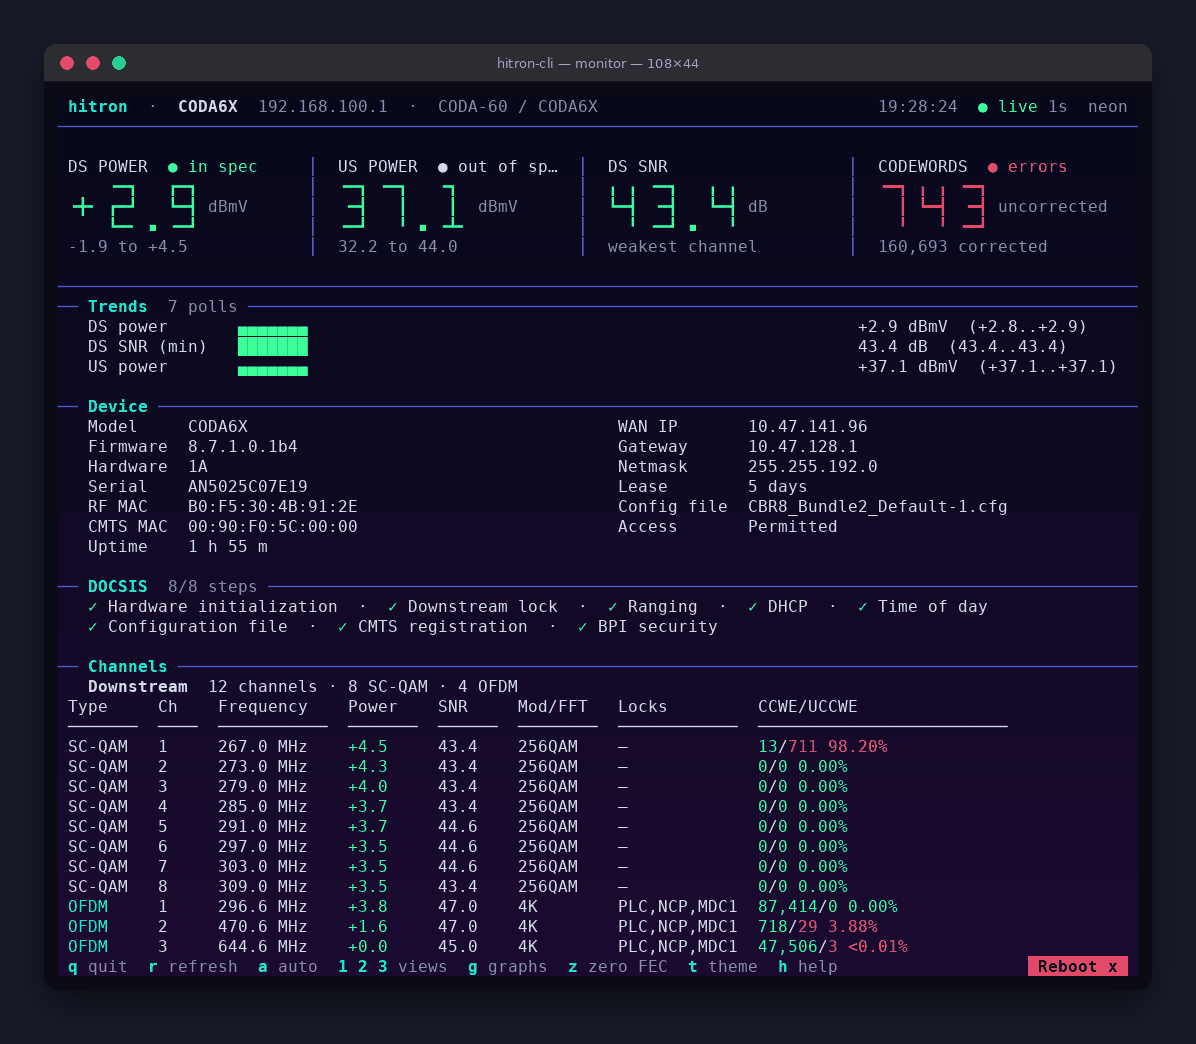
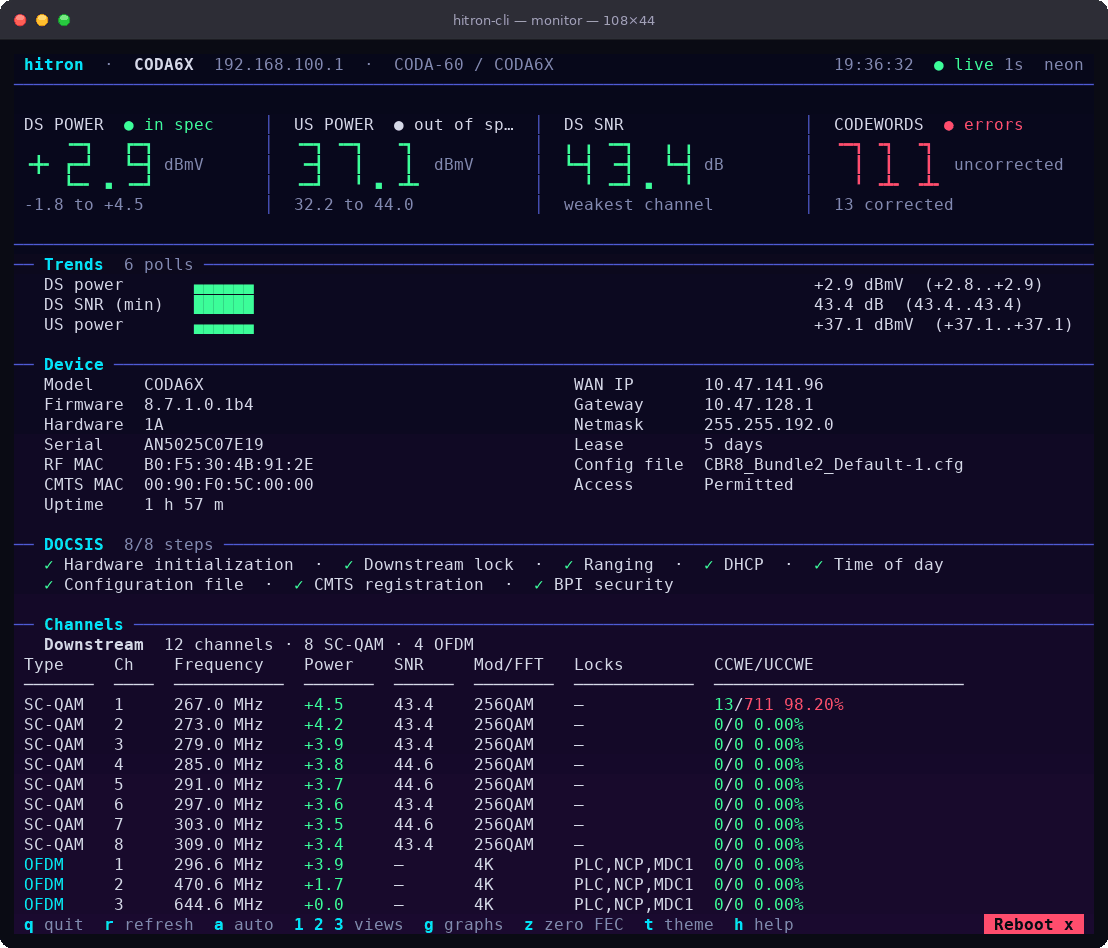
site: redesign CLI section; glossy window chrome, transparent edges, cropped shots
Claude-Session: https://claude.ai/code/session_01QjpKwof5sAL7DD3A8Eu8rh

Changed region(s): [[0.0, 0.0, 0.9819, 0.9789], [0.8592, 0.9177, 0.9819, 1.0]]

diff --git a/site/index.html b/site/index.html
@@ -88,73 +88,81 @@
   <div><strong>0</strong><span>extra Python deps</span></div>
 </section>
 
-<section id="cli" class="section">
-  <div class="section-head">
-    <h2>hitron-cli: a live dashboard in your terminal</h2>
-    <p>One static binary, no runtime, no login. It reads the modem's signal levels every second and shows them as big numbers, trend graphs, and a channel table that turns red when codewords go bad. Works on the CODA6X (CODA-60), CODA-57, and HT-EM5.</p>
+<section id="cli" class="section cli">
+  <div class="cli-hero">
+    <div class="cli-hero-copy">
+      <p class="eyebrow">hitron-cli</p>
+      <h2>Your modem's signal, live in the terminal.</h2>
+      <p class="lede">One static binary and no login. Power, SNR, and codeword errors update every second, with trend graphs and a channel table that turns red when something is wrong. Works on the CODA6X, CODA-57, and HT-EM5.</p>
+      <div class="cmd" role="group" aria-label="Install command">
+        <code id="cli-install-cmd">go install github.com/Netquor/hitron/cli/cmd/hitron-cli@latest</code>
+        <button class="copy" data-copy="#cli-install-cmd" type="button">Copy</button>
+      </div>
+      <p class="muted small">Needs Go 1.22+. Prefer a download? Binaries for Linux, macOS, and Windows are on <a href="https://github.com/Netquor/hitron/releases">Releases</a>.</p>
+      <div class="cta-row">
+        <a class="btn primary" href="#cli-start">Get started</a>
+        <a class="quiet-link" href="https://github.com/Netquor/hitron/tree/main/cli">Source and flags ↗</a>
+      </div>
+    </div>
+    <figure class="shot glow">
+      <img src="assets/cli/summary.gif" alt="hitron-cli live summary in a macOS terminal window: power and SNR tiles, trend graphs, device identity, DOCSIS steps, and a downstream channel table updating every second" width="1108" height="948">
+      <figcaption>A CODA-60 polled once a second. The identifiers are made up; the readings are real.</figcaption>
+    </figure>
   </div>
 
-  <figure class="shot hero-shot">
-    <img src="assets/cli/summary.gif" alt="hitron-cli live summary: power and SNR tiles, trend graphs, device identity, DOCSIS steps, and a downstream channel table updating once a second" width="1196" height="1044" loading="lazy">
-    <figcaption>The live summary on a CODA-60, polling once a second. Identifiers in these captures are made up; the readings are real.</figcaption>
-  </figure>
+  <ol id="cli-start" class="cli-steps">
+    <li>
+      <span class="step-num">1</span>
+      <h3>Install</h3>
+      <p>Use the command above, or download a release and put it on your <code>PATH</code>.</p>
+    </li>
+    <li>
+      <span class="step-num">2</span>
+      <h3>Run it on the modem's LAN</h3>
+      <pre class="mini"><code>hitron-cli monitor</code></pre>
+      <p>It tries <code>192.168.100.1</code> and detects the family. Another address: <code>hitron-cli monitor 192.168.0.1</code>.</p>
+    </li>
+    <li>
+      <span class="step-num">3</span>
+      <h3>Press <kbd>h</kbd></h3>
+      <p>Every action is one key and <kbd>q</kbd> quits. For scripts, <code>hitron-cli stats --once</code> prints text and <code>--json</code> a snapshot.</p>
+    </li>
+  </ol>
 
-  <div class="cli-grid">
-    <div class="install cli-install">
-      <h3>Get started</h3>
-      <ol class="cli-steps">
-        <li>
-          <strong>Install</strong>
-          <p class="muted small">Grab a binary from <a href="https://github.com/Netquor/hitron/releases">Releases</a> (Linux, macOS, Windows; amd64 and arm64), or build it with Go 1.22+:</p>
-          <pre class="install-code"><span class="prompt" aria-hidden="true">$</span><code id="cli-install-cmd">go install github.com/Netquor/hitron/cli/cmd/hitron-cli@latest</code></pre>
-          <button class="btn copy" type="button" data-copy="#cli-install-cmd">Copy</button>
-        </li>
-        <li>
-          <strong>Run it from any machine on the modem's LAN</strong>
-          <pre class="install-code"><span class="prompt" aria-hidden="true">$</span><code id="cli-run-cmd">hitron-cli monitor</code></pre>
-          <button class="btn copy" type="button" data-copy="#cli-run-cmd">Copy</button>
-          <p class="muted small">It finds the modem at <code>192.168.100.1</code>, works out which family it is, and starts the live view. Another address: <code>hitron-cli monitor 192.168.0.1</code>. No terminal UI wanted: <code>hitron-cli stats --once</code> prints a text report and <code>--json</code> a snapshot.</p>
-        </li>
-        <li>
-          <strong>Press <kbd>h</kbd> for help</strong>
-          <p class="muted small">Everything is one key. <kbd>q</kbd> quits.</p>
-        </li>
-      </ol>
-    </div>
-    <div class="keys-card">
-      <h3>Keys</h3>
-      <dl class="keys">
-        <div><dt><kbd>1</kbd> <kbd>2</kbd> <kbd>3</kbd></dt><dd>summary · live spectrum · constellation</dd></div>
-        <div><dt><kbd>[</kbd> <kbd>]</kbd></dt><dd>previous / next channel in the analyser views</dd></div>
-        <div><dt><kbd>g</kbd></dt><dd>show or hide trend graphs</dd></div>
-        <div><dt><kbd>z</kbd></dt><dd>zero the FEC counters (counts since you pressed it)</dd></div>
-        <div><dt><kbd>t</kbd></dt><dd>next theme, remembered for next time</dd></div>
-        <div><dt><kbd>r</kbd> <kbd>a</kbd></dt><dd>refresh now · toggle automatic refresh</dd></div>
-        <div><dt><kbd>j</kbd> <kbd>k</kbd></dt><dd>scroll (the mouse wheel works too)</dd></div>
-        <div><dt><kbd>x</kbd></dt><dd>reboot, behind a typed confirmation</dd></div>
-      </dl>
-    </div>
-  </div>
+  <dl class="keys">
+    <div><dt><kbd>1</kbd><kbd>2</kbd><kbd>3</kbd></dt><dd>summary, spectrum, constellation</dd></div>
+    <div><dt><kbd>[</kbd><kbd>]</kbd></dt><dd>step through analyser channels</dd></div>
+    <div><dt><kbd>g</kbd></dt><dd>trend graphs on or off</dd></div>
+    <div><dt><kbd>z</kbd></dt><dd>zero the FEC counters</dd></div>
+    <div><dt><kbd>t</kbd></dt><dd>next theme, remembered</dd></div>
+    <div><dt><kbd>r</kbd><kbd>a</kbd></dt><dd>refresh now, auto refresh</dd></div>
+    <div><dt><kbd>j</kbd><kbd>k</kbd></dt><dd>scroll; the mouse wheel too</dd></div>
+    <div><dt><kbd>x</kbd></dt><dd>reboot, behind a typed confirm</dd></div>
+  </dl>
 
-  <div class="cli-feature">
+  <article class="cli-feature">
     <div class="cli-feature-copy">
+      <p class="eyebrow">Errors</p>
       <h3>Codewords you can read at a glance</h3>
-      <p>Every channel shows corrected and uncorrectable codewords as one column, <code>13/711 98.20%</code>, coloured green when clean and red when not. The big tile at the top rolls the whole modem into one number. Lease and uptime read as <em>5 days</em> and <em>1 h 58 m</em>, and the event log is rewritten into plain sentences, such as a profile change shown as <em>12 → 6</em>.</p>
+      <p>Corrected and uncorrectable counts share one column, <code>13/711 98.20%</code>, green when clean and red when not. The tile at the top rolls the whole modem into one number. Lease and uptime read as <em>5 days</em> and <em>1 h 58 m</em>, and the event log becomes plain sentences, a profile change shown as <em>12 → 6</em>.</p>
     </div>
-  </div>
+    <figure class="shot"><img src="assets/cli/codewords.png" alt="The downstream channel table with a CCWE/UCCWE column showing corrected and uncorrectable codewords with percentages, coloured green or red" width="1108" height="360" loading="lazy"></figure>
+  </article>
 
-  <div class="cli-feature">
+  <article class="cli-feature flip">
     <div class="cli-feature-copy">
+      <p class="eyebrow">Analyser</p>
       <h3>A spectrum analyser and constellation, built in</h3>
-      <p>On CODA6X modems the cable modem's own tuner is exposed. Press <kbd>2</kbd> for a 6 MHz live spectrum capture around any downstream channel, or <kbd>3</kbd> for the I/Q constellation with MER. The modem has one tuner, so captures run one at a time; use <kbd>[</kbd> and <kbd>]</kbd> to step through channels.</p>
+      <p>CODA6X modems expose their own tuner. Press <kbd>2</kbd> for a live 6 MHz capture around any downstream channel, or <kbd>3</kbd> for the I/Q constellation with MER. There is one tuner, so captures run one at a time; <kbd>[</kbd> and <kbd>]</kbd> step through channels.</p>
     </div>
-    <figure class="shot"><img src="assets/cli/analyser.gif" alt="Spectrum view of a 6 MHz window, then the 256-QAM constellation for a downstream channel, stepping through channels" width="1196" height="1044" loading="lazy"></figure>
-  </div>
+    <figure class="shot"><img src="assets/cli/analyser.gif" alt="A 6 MHz spectrum capture, then the 256-QAM constellation, stepping through downstream channels" width="1108" height="694" loading="lazy"></figure>
+  </article>
 
-  <div class="cli-feature">
+  <article class="cli-feature">
     <div class="cli-feature-copy">
+      <p class="eyebrow">Themes</p>
       <h3>Six themes, one key</h3>
-      <p>Press <kbd>t</kbd> to cycle neon, synthwave, dracula, nord, gruvbox, and matrix. The gradient background needs a 24-bit colour terminal and turns itself off otherwise; <kbd>b</kbd> toggles it.</p>
+      <p>Press <kbd>t</kbd> to cycle them. The gradient background needs a 24-bit colour terminal and switches itself off otherwise; <kbd>b</kbd> toggles it.</p>
       <div class="theme-picker" role="group" aria-label="Theme preview">
         <button type="button" data-theme-shot="neon" aria-pressed="true">neon</button>
         <button type="button" data-theme-shot="synthwave" aria-pressed="false">synthwave</button>
@@ -164,18 +172,19 @@
         <button type="button" data-theme-shot="matrix" aria-pressed="false">matrix</button>
       </div>
     </div>
-    <figure class="shot"><img id="theme-shot" src="assets/cli/theme-neon.png" alt="hitron-cli summary in the neon theme" width="1196" height="1044" loading="lazy"></figure>
-  </div>
+    <figure class="shot"><img id="theme-shot" src="assets/cli/theme-neon.png" alt="hitron-cli summary in the neon theme" width="1108" height="948" loading="lazy"></figure>
+  </article>
 
-  <div class="cli-feature">
+  <article class="cli-feature flip">
     <div class="cli-feature-copy">
-      <h3>Reboot that cannot happen by accident</h3>
-      <p>Press <kbd>x</kbd> (or click the Reboot button) and a dialog asks you to type the word <code>reboot</code>. Nothing is sent before that, and <kbd>Esc</kbd> cancels. The CODA6X needs no username or password from the LAN, so the dialog does not ask for one. Factory reset and hard reset are deliberately not in the dashboard; they stay as separate commands.</p>
+      <p class="eyebrow">Safety</p>
+      <h3>A reboot that cannot happen by accident</h3>
+      <p>Press <kbd>x</kbd>, or click the Reboot button, and a dialog asks you to type <code>reboot</code>. Nothing is sent before that and <kbd>Esc</kbd> cancels. The CODA6X needs no username or password from the LAN, so the dialog asks for none. Factory reset and hard reset are not in the dashboard; they stay separate commands.</p>
     </div>
-    <figure class="shot"><img src="assets/cli/reboot.png" alt="The reboot confirmation dialog asking the user to type the word reboot" width="1196" height="1044" loading="lazy"></figure>
-  </div>
+    <figure class="shot"><img src="assets/cli/reboot.png" alt="The reboot confirmation dialog asking you to type the word reboot" width="1108" height="500" loading="lazy"></figure>
+  </article>
 
-  <p class="muted small">Source, flags, and the full command list: <a href="https://github.com/Netquor/hitron/tree/main/cli">cli/README.md</a>. Read-only by design: the dashboard polls the same endpoints the modem's own status page uses.</p>
+  <p class="muted small cli-foot">The dashboard only reads: it polls the same endpoints the modem's own status page uses. Full command list in <a href="https://github.com/Netquor/hitron/tree/main/cli">cli/README.md</a>.</p>
 </section>
 
 <section id="quickstart" class="section">

diff --git a/site/assets/style.css b/site/assets/style.css
@@ -577,27 +577,42 @@ kbd {
 }
 
 /* hitron-cli showcase */
-.shot { margin: 0; }
-.shot img { display: block; width: 100%; height: auto; border-radius: var(--radius); background: #181a28; }
-.shot figcaption { margin-top: .5rem; font-size: .8rem; color: var(--ink-dim); }
-.hero-shot { max-width: 56rem; margin: 0 0 2rem; }
-.cli-grid { display: grid; gap: 1.2rem; grid-template-columns: repeat(auto-fit, minmax(20rem, 1fr)); margin-bottom: 2.4rem; }
-.cli-install, .keys-card { background: var(--bg-raise); border: 1px solid var(--line); border-radius: var(--radius); padding: 1.1rem 1.2rem; }
-.cli-install h3, .keys-card h3 { margin: 0 0 .7rem; font-size: 1rem; }
-.cli-steps { margin: 0; padding-left: 1.2rem; display: grid; gap: 1rem; }
-.cli-steps p { margin: .4rem 0 0; }
-.cli-steps .btn { margin-top: .5rem; }
-.keys { margin: 0; display: grid; gap: .5rem; }
-.keys > div { display: grid; grid-template-columns: 7.5rem 1fr; gap: .6rem; align-items: baseline; }
-.keys dt { white-space: nowrap; }
-.keys dd { margin: 0; color: var(--ink-soft); font-size: .9rem; }
-.cli-feature { display: grid; gap: 1.4rem 2rem; grid-template-columns: minmax(0, 1fr) minmax(0, 1.4fr); align-items: center; margin: 0 0 2.6rem; }
-.cli-feature:has(> .cli-feature-copy:only-child) { grid-template-columns: minmax(0, 52rem); }
-.cli-feature h3 { margin: 0 0 .5rem; font-size: 1.15rem; letter-spacing: -.01em; }
+.cli { --glow: color-mix(in srgb, var(--accent) 22%, transparent); }
+.cli-hero { display: grid; grid-template-columns: minmax(0, 5fr) minmax(0, 7fr); gap: 2.5rem 3rem; align-items: center; margin-bottom: 3rem; }
+.cli-hero h2 { font-size: clamp(1.9rem, 3.6vw, 2.8rem); line-height: 1.08; letter-spacing: -.03em; margin: .2rem 0 .9rem; }
+.cli-hero .lede { margin: 0 0 1.2rem; }
+.cli-hero .cmd { margin-bottom: .7rem; }
+.cli-hero .cta-row { margin-top: 1.1rem; }
+.shot { margin: 0; position: relative; }
+.shot img { display: block; width: 100%; height: auto; filter: drop-shadow(0 22px 34px rgba(0, 0, 0, .38)) drop-shadow(0 2px 4px rgba(0, 0, 0, .3)); }
+.shot figcaption { margin-top: .9rem; font-size: .8rem; color: var(--ink-dim); text-align: center; }
+.shot.glow::before { content: ""; position: absolute; inset: -12% -8%; z-index: -1; background: radial-gradient(60% 60% at 50% 45%, var(--glow), transparent 70%); pointer-events: none; }
+.cli-steps { list-style: none; margin: 0 0 1.6rem; padding: 0; display: grid; grid-template-columns: repeat(auto-fit, minmax(15rem, 1fr)); gap: 1rem; }
+.cli-steps li { background: var(--bg-raise); border: 1px solid var(--line); border-radius: var(--radius); padding: 1.1rem 1.2rem 1.2rem; }
+.cli-steps .step-num { display: inline-grid; place-items: center; width: 1.6rem; height: 1.6rem; border-radius: 50%; background: var(--accent-soft); color: var(--accent); font: 600 .8rem var(--mono); margin-bottom: .6rem; }
+.cli-steps h3 { margin: 0 0 .4rem; font-size: 1rem; letter-spacing: -.01em; }
+.cli-steps p { margin: .5rem 0 0; font-size: .88rem; color: var(--ink-soft); }
+.cli-steps .mini { margin: .2rem 0 0; padding: .55rem .8rem; background: var(--code-bg); color: var(--code-ink); border-radius: 8px; font-size: .88rem; }
+.keys { margin: 0 0 4rem; display: grid; grid-template-columns: repeat(auto-fit, minmax(19rem, 1fr)); gap: .6rem 1.6rem; padding: 1.1rem 1.3rem; border: 1px solid var(--line-soft); border-radius: var(--radius); background: var(--bg-inset); }
+.keys > div { display: flex; align-items: center; gap: .7rem; }
+.keys dt { flex: 0 0 4.4rem; display: flex; gap: .25rem; }
+.keys dd { margin: 0; color: var(--ink-soft); font-size: .88rem; }
+.cli-feature { display: grid; grid-template-columns: minmax(0, 4fr) minmax(0, 6fr); gap: 1.6rem 3rem; align-items: center; margin: 0 0 4.5rem; }
+.cli-feature.flip { grid-template-columns: minmax(0, 6fr) minmax(0, 4fr); }
+.cli-feature.flip .cli-feature-copy { order: 2; }
+.cli-feature .eyebrow { margin: 0 0 .35rem; }
+.cli-feature h3 { margin: 0 0 .6rem; font-size: 1.4rem; line-height: 1.2; letter-spacing: -.02em; }
 .cli-feature p { margin: 0 0 .8rem; color: var(--ink-soft); }
-.theme-picker { display: flex; flex-wrap: wrap; gap: .4rem; }
-.theme-picker button { font: inherit; font-size: .82rem; padding: .3rem .7rem; border-radius: 999px; border: 1px solid var(--line); background: var(--bg-raise); color: var(--ink); cursor: pointer; }
+.cli-feature p.eyebrow { color: var(--accent); }
+.theme-picker { display: flex; flex-wrap: wrap; gap: .4rem; margin-top: .4rem; }
+.theme-picker button { font: inherit; font-size: .82rem; padding: .3rem .75rem; border-radius: 999px; border: 1px solid var(--line); background: var(--bg-raise); color: var(--ink); cursor: pointer; }
+.theme-picker button:hover { border-color: var(--accent); }
 .theme-picker button[aria-pressed="true"] { background: var(--accent); color: var(--accent-ink); border-color: var(--accent); }
 .theme-picker button:focus-visible { outline: 2px solid var(--accent); outline-offset: 2px; }
+.cli-foot { text-align: center; margin: 0; }
 .browser-guide { margin-bottom: 1.6rem; }
-@media (max-width: 820px) { .cli-feature { grid-template-columns: 1fr; } .keys > div { grid-template-columns: 6rem 1fr; } }
+@media (max-width: 900px) {
+  .cli-hero, .cli-feature, .cli-feature.flip { grid-template-columns: 1fr; }
+  .cli-feature.flip .cli-feature-copy { order: 0; }
+  .cli-feature { margin-bottom: 3rem; }
+}

diff --git a/cli/demo/render.py b/cli/demo/render.py
@@ -60,36 +60,42 @@ class Painter:
         self.h = ROWS * CH + PAD * 2
 
     def chrome(self, content):
-        """Wrap a frame in a macOS-style window: title bar, traffic lights, shadow."""
-        if not hasattr(self, "_base"):
-            m, bar, rad = 44, 38, 12
-            w, h = content.width, content.height + bar
-            W, H = w + 2 * m, h + 2 * m + 10
-            bg = Image.new("RGB", (W, H), (24, 26, 40))
-            shadow = Image.new("L", (W, H), 0)
-            ImageDraw.Draw(shadow).rounded_rectangle([m, m + 14, m + w, m + 14 + h], rad, fill=170)
-            shadow = shadow.filter(ImageFilter.GaussianBlur(18))
-            bg.paste(Image.new("RGB", (W, H), (4, 5, 10)), (0, 0), shadow)
-            win = Image.new("RGB", (w, h), (44, 44, 50))
-            d = ImageDraw.Draw(win)
-            for i, c in enumerate([(255, 95, 86), (255, 189, 46), (39, 201, 63)]):
-                d.ellipse([16 + i * 26, 12, 16 + i * 26 + 13, 25], fill=c)
-            f = ImageFont.truetype("/usr/share/fonts/truetype/dejavu/DejaVuSans.ttf", 13)
-            title = "hitron-cli — monitor — %d×%d" % (COLS, ROWS)
-            d.text(((w - d.textlength(title, font=f)) / 2, 11), title, font=f, fill=(170, 170, 180))
-            d.line([0, bar - 1, w, bar - 1], fill=(20, 20, 24))
-            self._base = (bg, win, m, bar, rad)
-        bg, win, m, bar, rad = self._base
-        win = win.copy()
-        win.paste(content, (0, bar))
-        mask = Image.new("L", win.size, 0)
-        ImageDraw.Draw(mask).rounded_rectangle([0, 0, win.width - 1, win.height - 1], rad, fill=255)
-        out = bg.copy()
-        out.paste(win, (m, m), mask)
-        return out
+        """Wrap a frame in a macOS-style window (RGBA, transparent rounded corners)."""
+        bar, rad, S = 40, 12, 4
+        w, h = content.width, content.height + bar
+        win = Image.new("RGBA", (w * S, h * S), (0, 0, 0, 0))
+        d = ImageDraw.Draw(win)
+        d.rounded_rectangle([0, 0, w * S - 1, h * S - 1], rad * S, fill=(30, 31, 38, 255))
+        d.rounded_rectangle([0, 0, w * S - 1, (bar + rad) * S], rad * S, fill=(46, 47, 55, 255))
+        d.rectangle([0, bar * S, w * S, (bar + rad) * S], fill=(30, 31, 38, 255))
+        d.line([0, bar * S - 1, w * S, bar * S - 1], fill=(14, 14, 18, 255), width=S)
+        for i, (hi, mid, rim) in enumerate([((255, 141, 130), (255, 95, 86), (224, 62, 54)),
+                                           ((255, 216, 112), (255, 189, 46), (214, 150, 20)),
+                                           ((120, 232, 130), (39, 201, 63), (28, 150, 44))]):
+            cx, cy, rr = (20 + i * 22) * S, (bar // 2) * S, 6 * S
+            d.ellipse([cx - rr, cy - rr, cx + rr, cy + rr], fill=rim)
+            d.ellipse([cx - rr + S, cy - rr + S, cx + rr - S, cy + rr - S], fill=mid)
+            d.ellipse([cx - rr + 2 * S, cy - rr + S, cx + rr - 2 * S, cy], fill=hi)
+        win = win.resize((w, h), Image.LANCZOS)
+        d = ImageDraw.Draw(win)
+        f = ImageFont.truetype("/usr/share/fonts/truetype/dejavu/DejaVuSans.ttf", 13)
+        title = "hitron-cli \u2014 monitor \u2014 %d\u00d7%d" % (COLS, ROWS)
+        d.text(((w - d.textlength(title, font=f)) / 2, bar // 2 - 8), title, font=f, fill=(165, 167, 180, 255))
+        mask = Image.new("L", (w * S, h * S), 0)
+        ImageDraw.Draw(mask).rounded_rectangle([0, bar * S, w * S - 1, h * S - 1], rad * S, fill=255)
+        ImageDraw.Draw(mask).rectangle([0, bar * S, w * S, (bar + rad) * S], fill=255)
+        mask = mask.resize((w, h), Image.LANCZOS).crop((0, bar, w, h))
+        win.paste(content.convert("RGBA"), (0, bar), mask)
+        return win
+
+    rows = None
 
     def draw(self, screen):
-        return self.chrome(self._draw(screen))
+        img = self._draw(screen)
+        if self.rows:
+            a, b = self.rows
+            img = img.crop((0, a * CH + (PAD if a else 0), img.width, PAD + b * CH))
+        return self.chrome(img)
 
     def _draw(self, screen):
         img = Image.new("RGB", (self.w, self.h), DEFAULT_BG)
@@ -158,23 +164,54 @@ class Session:
             pass
 
 
-def save_gif(frames, path, fps=5, colors=128):
+LIGHTS = [(255, 141, 130), (255, 95, 86), (224, 62, 54), (255, 216, 112), (255, 189, 46),
+          (214, 150, 20), (120, 232, 130), (39, 201, 63), (28, 150, 44), (46, 47, 55), (30, 31, 38)]
+
+
+def palette_for(sample):
+    base = sample.convert("RGB").quantize(colors=244, method=Image.Quantize.MEDIANCUT, dither=Image.Dither.NONE)
+    flat = base.getpalette()[: 244 * 3]
+    for c in LIGHTS:
+        flat += list(c)
+    flat += [0, 0, 0] * (256 - len(flat) // 3)
+    pal = Image.new("P", (1, 1))
+    pal.putpalette(flat)
+    return pal
+
+
+def to_indexed(img, pal):
+    out = img.convert("RGB").quantize(palette=pal, dither=Image.Dither.NONE)
+    clear = img.getchannel("A").point(lambda a: 255 if a < 128 else 0)
+    out.paste(255, mask=clear)
+    return out
+
+
+def save_png(img, path):
+    to_indexed(img, palette_for(img)).save(path, transparency=255, optimize=True)
+
+
+def save_gif(frames, path, fps=5):
     if not frames:
         return
-    pal = frames[len(frames) // 2].convert("P", palette=Image.ADAPTIVE, colors=colors)
-    out = [f.quantize(palette=pal, dither=Image.Dither.NONE) for f in frames]
-    out[0].save(path, save_all=True, append_images=out[1:], duration=int(1000 / fps), loop=0, optimize=False, disposal=1)
+    pal = palette_for(frames[len(frames) // 2])
+    out = [to_indexed(f, pal) for f in frames]
+    out[0].save(path, save_all=True, append_images=out[1:], duration=int(1000 / fps), loop=0,
+                optimize=False, disposal=1, transparency=255)
 
 
 def scenario(name, binary, host, out, extra=None):
     home = tempfile.mkdtemp()
     s = Session(binary, host, home, extra or [])
+    s.painter.rows = {"analyser": (0, 32), "reboot": (10, 33)}.get(name)
     shots = {}
     try:
         s.pump(5, record=False)  # let the history build and the layout settle
         if name == "summary":
             s.pump(1)
             shots["summary"] = s.painter.draw(s.screen)
+            full = s.painter._draw(s.screen)
+            top = PAD + 27 * CH
+            shots["codewords"] = s.painter.chrome(full.crop((0, top, full.width, full.height - PAD - CH)))
             s.pump(24)
         elif name == "themes":
             for i, theme in enumerate(["neon", "synthwave", "dracula", "nord", "gruvbox", "matrix"]):
@@ -210,7 +247,7 @@ def scenario(name, binary, host, out, extra=None):
         s.close()
     os.makedirs(out, exist_ok=True)
     for k, img in shots.items():
-        img.save(os.path.join(out, k + ".png"), optimize=True)
+        save_png(img, os.path.join(out, k + ".png"))
     if s.frames:
         save_gif(s.frames, os.path.join(out, name + ".gif"))
     return len(s.frames), list(shots)
